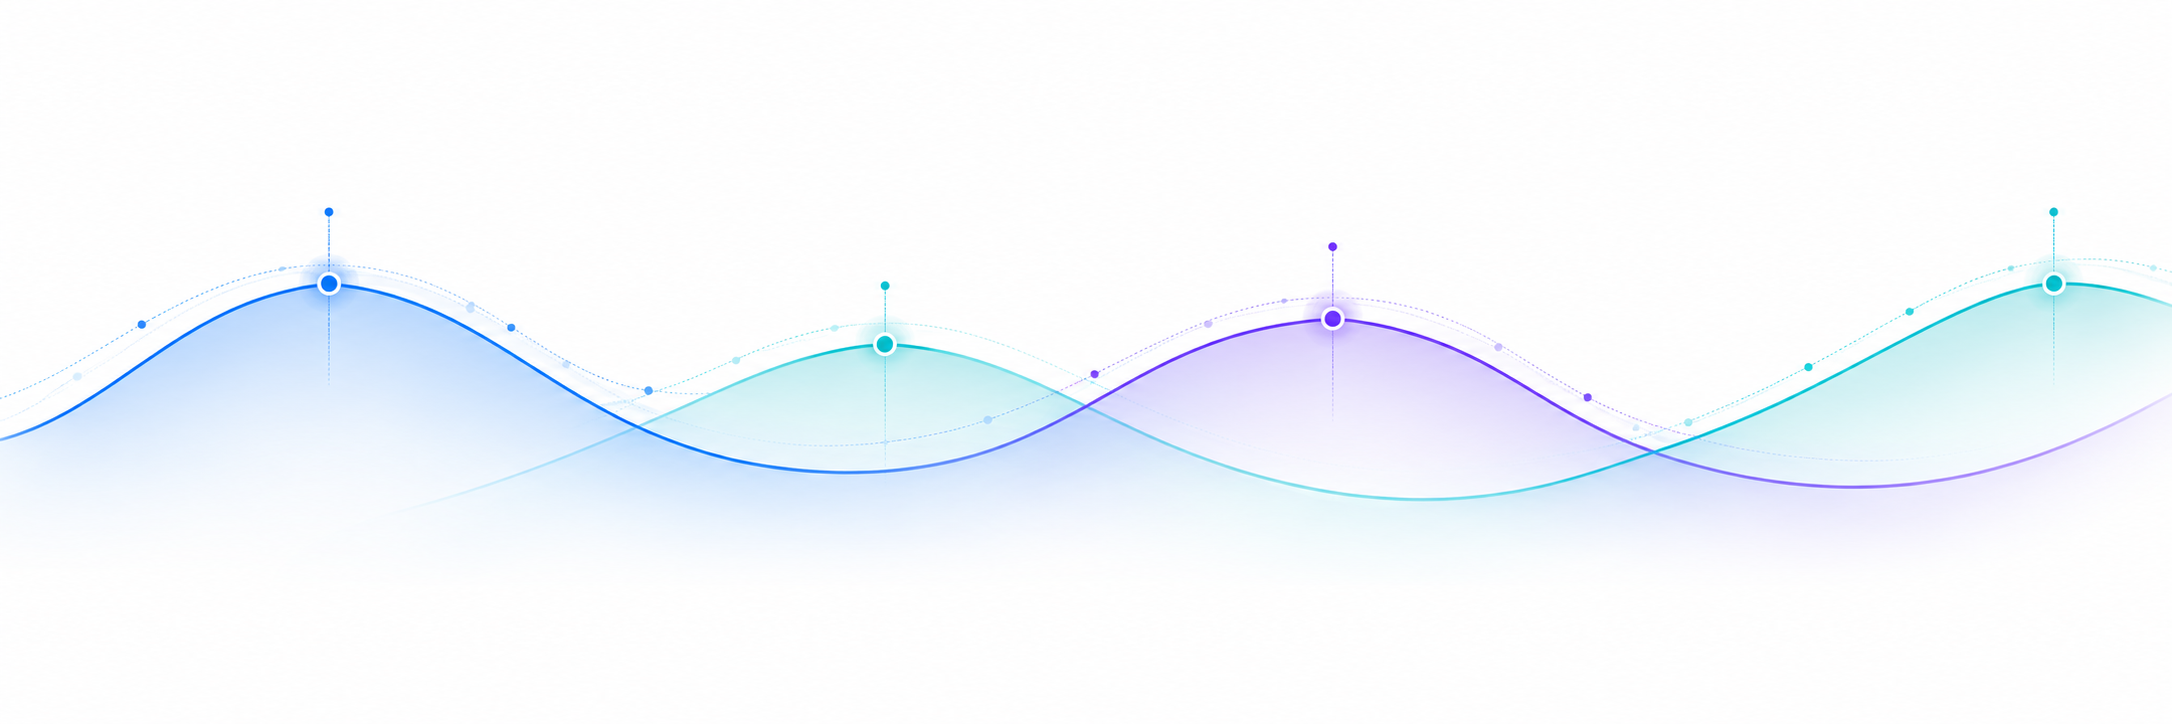
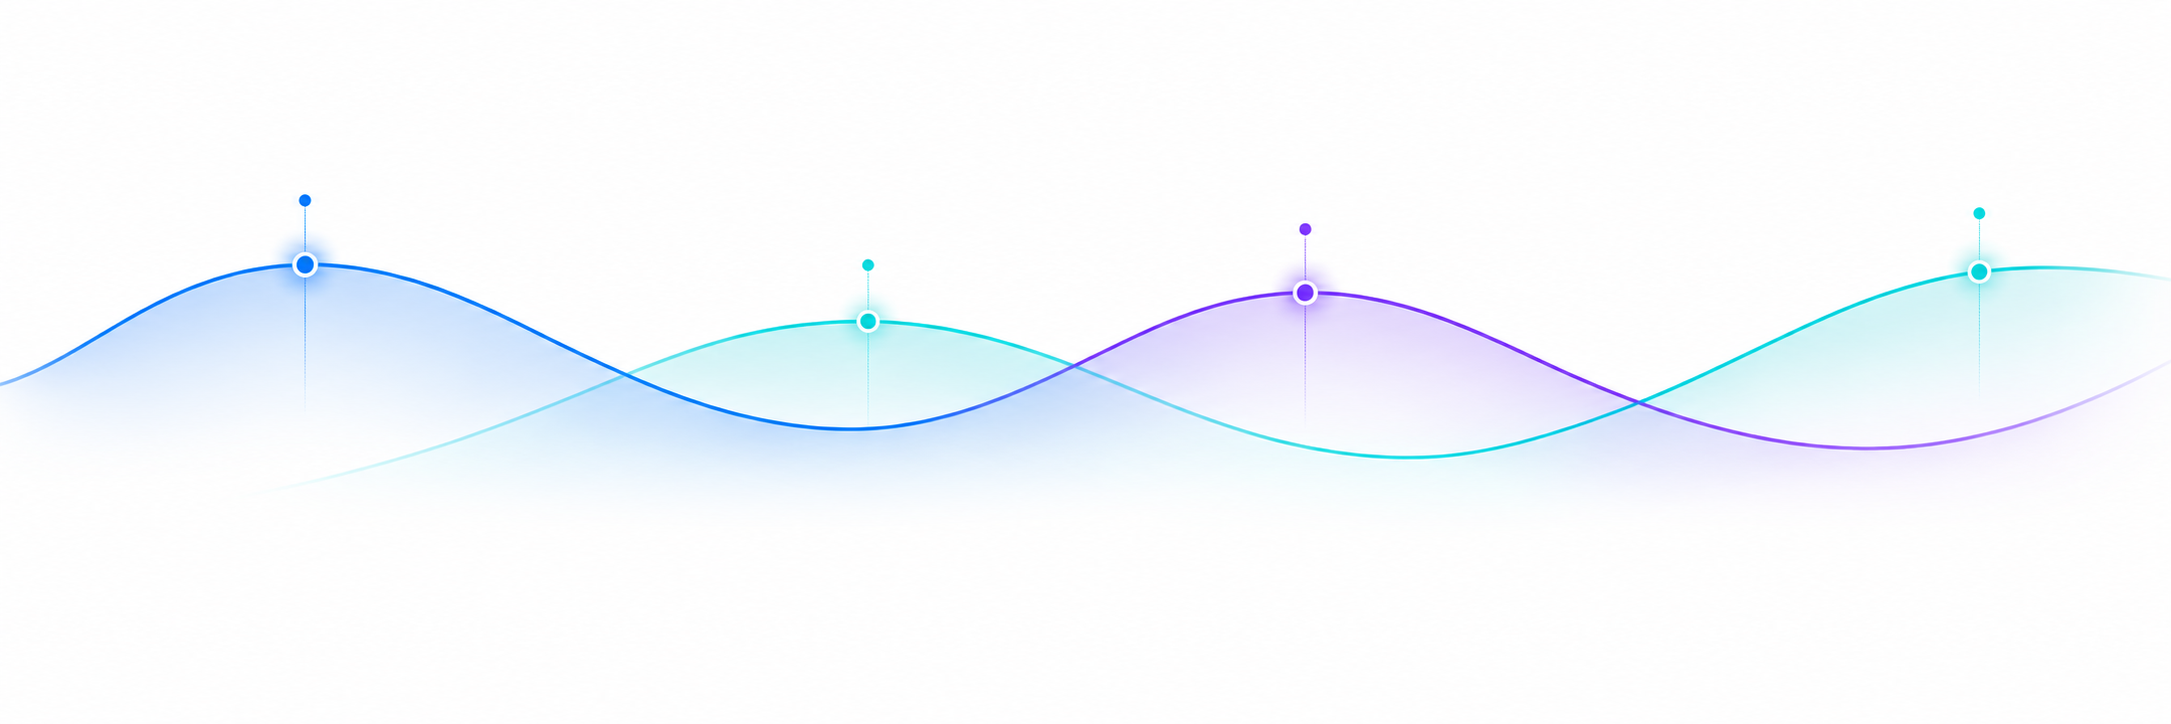
Fit the Command Center wave on one screen with the totals above the lines.

diff --git a/static/index.html b/static/index.html
@@ -95,6 +95,9 @@ main { padding: 16px 24px 48px; flex: 1; min-width: 0; }
 
 /* ---------- command center home ---------- */
 .hero { background: #fff; border-radius: 0; padding: 56px 24px 48px; min-height: calc(100vh - 88px); display: flex; flex-direction: column; align-items: center; }
+.hero:not(.chatting) { height: calc(100vh - 62px); max-height: calc(100vh - 62px); min-height: 0; padding: 20px 24px 8px; box-sizing: border-box; overflow: hidden; }
+.hero:not(.chatting) .askbox { margin-top: 16px; }
+.hero:not(.chatting) .chips { margin-top: 12px; }
 .cockpit-kicker { margin: 0; font-size: 11px; font-weight: 600; letter-spacing: .22em; text-transform: uppercase; color: #94a3b8; }
 .hero h1 { font-family: "Times New Roman", "Source Serif 4", Times, serif; font-weight: 700; font-size: 46px; letter-spacing: -.6px; margin: 12px 0 0; text-align: center; color: #0B1640; }
 .hero h1 span { color: #0B1640; }
@@ -116,10 +119,10 @@ main { padding: 16px 24px 48px; flex: 1; min-width: 0; }
 .cockpit-metrics .val small { font-size: .62em; }
 .cockpit-metrics .val .u { font-family: Inter, system-ui, sans-serif; font-size: 12px; font-weight: 600; color: #94a3b8; letter-spacing: 0; margin-left: 4px; }
 .cockpit-metrics .share { margin: 4px 0 0; min-height: 16px; font-size: 12px; color: #94a3b8; }
-.cockpit-wave { position: relative; width: calc(100% + 48px); margin: 28px -24px 0; background: #fff; }
-.cockpit-wave img { width: 100%; height: auto; display: block; background: #fff; }
-.wave-metric { position: absolute; width: 20%; text-align: center; transform: translate(-50%, calc(-100% - 6px)); }
-.wave-metric.edge-end { transform: translate(calc(-100% + 10px), calc(-100% - 6px)); text-align: right; }
+.cockpit-wave { position: relative; flex: 1 1 auto; min-height: 0; width: calc(100% + 48px); margin: 6px -24px 0; background: #fff; overflow: hidden; }
+.wave-clip { position: absolute; left: 0; right: 0; bottom: 0; height: 46%; overflow: hidden; background: #fff; }
+.wave-clip img { width: 100%; height: auto; display: block; margin-top: -11.6%; background: #fff; }
+.wave-metric { position: absolute; top: 0; bottom: 46%; display: flex; flex-direction: column; justify-content: flex-end; text-align: center; transform: translateX(-50%); padding-bottom: 2px; }
 .wave-metric .lab { margin: 0; font-size: 13px; color: #64748b; font-weight: 500; white-space: nowrap; }
 .wave-metric .val { margin: 4px 0 0; font-family: "Times New Roman", "Source Serif 4", Times, serif; font-size: clamp(18px, 2.1vw, 32px); font-weight: 700; letter-spacing: -.04em; color: #0B1640; line-height: 1.05; }
 .wave-metric .val .u { font-family: Inter, system-ui, sans-serif; font-size: 12px; font-weight: 600; color: #94a3b8; letter-spacing: 0; margin-left: 4px; }
@@ -349,7 +352,7 @@ dl dt { font-weight: 600; margin-top: 12px; } dl dd { margin: 2px 0 0; color: va
   .charts { grid-template-columns: 1fr; } .span-2, .span-3 { grid-column: auto; }
   .chartbox { height: 260px !important; }
   .insights { grid-template-columns: 1fr; }
-  .hero { padding: 32px 14px 28px; min-height: auto; } .cockpit-metrics { grid-template-columns: 1fr 1fr; row-gap: 18px; } .cockpit-metrics .val { font-size: 26px; }
+  .hero { padding: 32px 14px 28px; min-height: auto; } .hero:not(.chatting) { height: calc(100vh - 58px); max-height: calc(100vh - 58px); padding: 16px 14px 6px; } .cockpit-metrics { grid-template-columns: 1fr 1fr; row-gap: 18px; } .cockpit-metrics .val { font-size: 26px; }
   .cockpit-wave, .flow-toggle { width: calc(100% + 28px); margin-left: -14px; margin-right: -14px; }
   .wave-metric .lab { font-size: 10px; }
   .wave-metric .val { font-size: 15px; }
@@ -398,6 +401,9 @@ body.page-inv { background: #f5f7fb; color: #14213D; --accent: #2563EB; --accent
 body.page-inv .shell, body.page-inv main { background: #f5f7fb; }
 body.page-inv main { padding-top: 8px; }
 body.page-inv .hero { margin: -8px -24px -48px; }
+body.page-inv:has(.hero:not(.chatting)) { overflow: hidden; }
+body.page-inv main:has(.hero:not(.chatting)) { overflow: hidden; padding-bottom: 0; }
+body.page-inv .hero:not(.chatting) { margin-bottom: 0; }
 body.page-inv .topbar { background: #fff; border-bottom-color: #E2E8F0; }
 body.page-inv .topbar .page { display: block; font-size: 14px; font-weight: 500; color: #0f172a; }
 body.page-inv .topbar .right { align-items: center; margin-left: auto; }
@@ -1150,7 +1156,6 @@ function renderCommand() {
   const name = displayName();
   const chatting = S.thread.length > 0;
   document.getElementById('content').innerHTML = `<section class="hero ${chatting ? 'chatting' : ''}" id="hero">
-    <p class="cockpit-kicker">Your inventory cockpit</p>
     <h1>${greeting()}${name ? `, <span>${esc(name)}</span>.` : ''}</h1>
     <div class="hero-rule"></div>
     <div class="thread" id="thread"></div>
@@ -1187,15 +1192,15 @@ async function loadCockpit() {
   try { feed = await api('/api/cockpit'); } catch (e) { feed = { metrics: [], frames: [] }; }
   if (S.view !== 'command' || !document.getElementById('cockpitWave')) return;
   const peaks = [
-    { x: 15.2, y: 39.3, w: 17 },
-    { x: 40.7, y: 47.6, w: 16 },
-    { x: 61.3, y: 44.1, w: 16 },
-    { x: 94.5, y: 39.6, w: 16, edge: 'edge-end' },
+    { x: 14, w: 16 },
+    { x: 40, w: 16 },
+    { x: 60.1, w: 16 },
+    { x: 91.1, w: 15 },
   ];
   const metrics = feed.metrics || [];
-  wave.innerHTML = `<img src="/static/cockpit-wave.png" alt="Inventory flow">` + peaks.map((p, i) => {
+  wave.innerHTML = `<div class="wave-clip"><img src="/static/cockpit-wave.png" alt="Inventory flow"></div>` + peaks.map((p, i) => {
     const m = metrics[i] || { label: '', value: 0 };
-    return `<div class="wave-metric ${p.edge || ''}" style="left:${p.x}%;top:${p.y}%;width:${p.w}%"><p class="lab">${esc(m.label)}</p><p class="val">${moneyRich(m.value)}</p><div class="wave-delta" data-slot="${i}"></div></div>`;
+    return `<div class="wave-metric" style="left:${p.x}%;width:${p.w}%"><p class="lab">${esc(m.label)}</p><p class="val">${moneyRich(m.value)}</p><div class="wave-delta" data-slot="${i}"></div></div>`;
   }).join('');
   const decks = [[], [], [], []];
   (feed.frames || []).forEach(f => { if (decks[f.slot]) decks[f.slot].push(f); });
